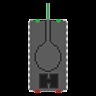
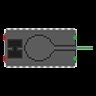
Fixed artifacting when rotating sprite in pygame

diff --git a/motor_test.py b/motor_test.py
@@ -101,7 +101,8 @@ def left(x):
 	print("left")
 	change_angle(turn_angle)
 	global car_surface
-	car_surface = rot_center(car_surface, turn_angle)
+	car_surface = rot_center(pygame.image.load('car_body.jpg'), car_angle) 
+	#redefining a new surface every time as a new image removes artifacting when rotating
 	time.sleep(x)
 	calculate_position(fake_sensor(),'left')
 
@@ -109,7 +110,7 @@ def right(x):
 	print("right")
 	change_angle(-turn_angle)
 	global car_surface
-	car_surface = rot_center(car_surface, -1*turn_angle)
+	car_surface = rot_center(pygame.image.load('car_body.jpg'), car_angle)
 	time.sleep(x)
 	calculate_position(fake_sensor(),'right')
 
@@ -140,7 +141,7 @@ while not gameExit:
 
 	#drawing the dots
 	for item in sensor_list:
-		gameDisplay.fill(white, rect=[item[0],item[1],3,3]) #Dots are size 3x3
+		gameDisplay.fill(white, rect=[item[0],item[1],5,5]) #Dots are size 5x5
 
 	pygame.display.update()
 
